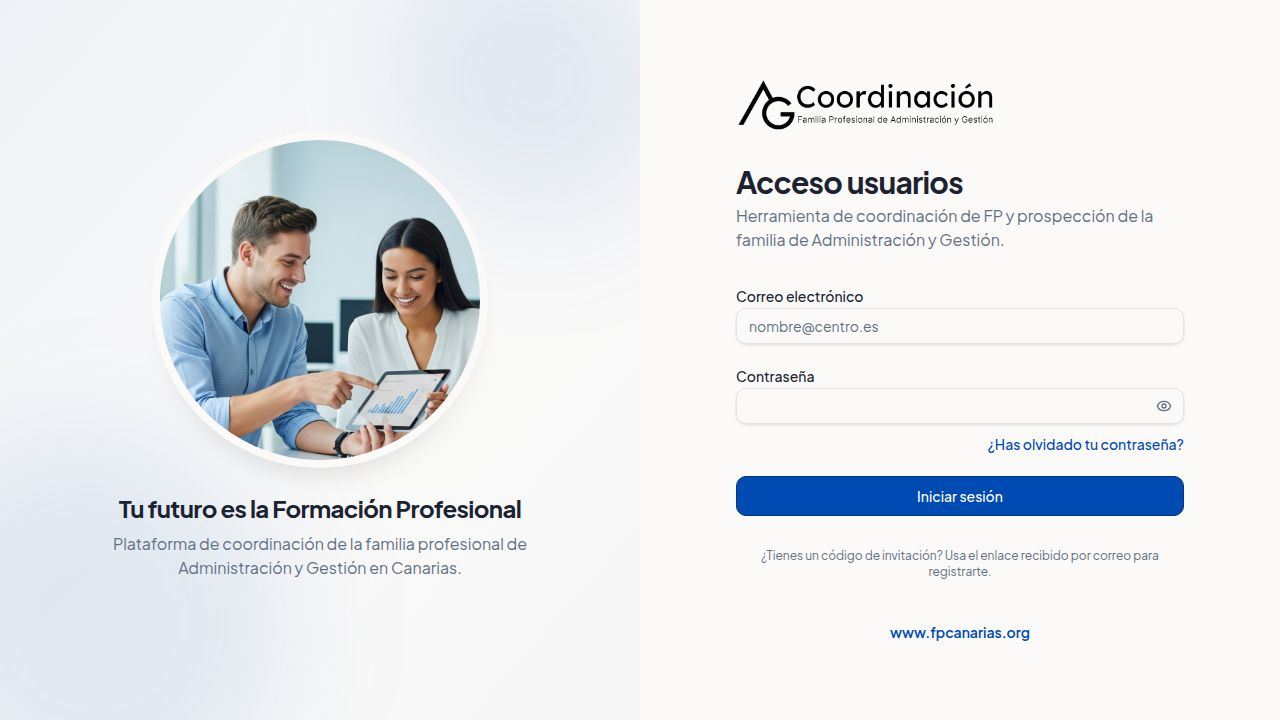
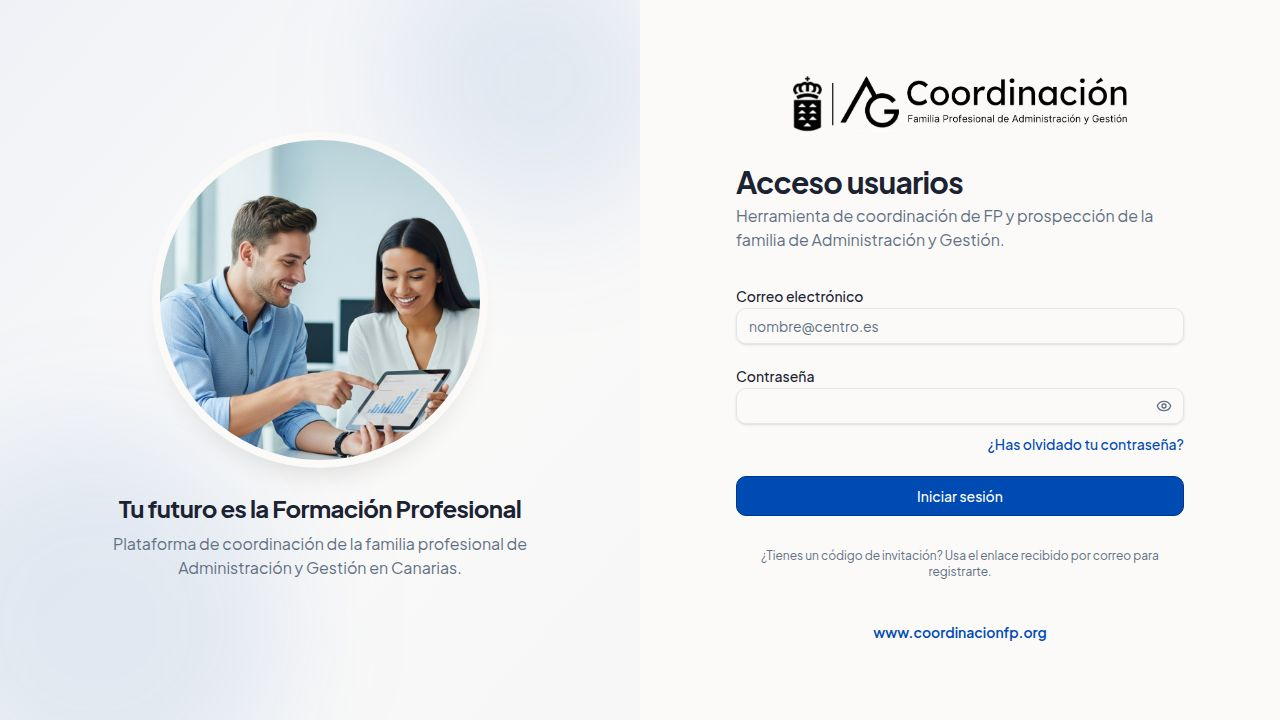
Fix bootstrap deadlock by making API token optional for initial login
Introduce a `loginReady` status to differentiate between full configuration and the ability to log in, allowing users to access Outline and create the necessary API token without requiring it upfront.

Replit-Commit-Author: Agent
Replit-Commit-Session-Id: e821acc1-37b8-4d06-96f6-77c2410569cb
Replit-Commit-Checkpoint-Type: full_checkpoint
Replit-Commit-Event-Id: c4529ff8-96e2-440d-9491-8402c19c4992
Replit-Commit-Screenshot-Url: https://storage.googleapis.com/screenshot-production-us-central1/23af8127-9343-4c36-b5e8-4810013bb784/e821acc1-37b8-4d06-96f6-77c2410569cb/nrqJcTv
Replit-Helium-Checkpoint-Created: true

Changed region(s): [[0.5625, 0.0917, 0.875, 0.1833], [0.6875, 0.8556, 0.8125, 0.8861]]

diff --git a/artifacts/api-server/src/routes/wiki.ts b/artifacts/api-server/src/routes/wiki.ts
@@ -19,6 +19,7 @@ import { requireAuth } from "../middlewares/auth";
 import { getSettings } from "../lib/settings";
 import {
   isOutlineConfigured,
+  isOutlineLoginReady,
   resolveOutlineConfig,
   resolveOutlineUrl,
   ensureModuleWiki,
@@ -38,6 +39,7 @@ router.get("/wiki/status", requireAuth, async (_req, res): Promise<void> => {
   res.json(
     GetWikiStatusResponse.parse({
       configured: isOutlineConfigured(settings),
+      loginReady: isOutlineLoginReady(settings),
       outlineUrl: resolveOutlineUrl(settings),
     }),
   );
@@ -296,11 +298,10 @@ router.post(
     const caller = req.user!;
 
     const settings = await getSettings();
-    if (!isOutlineConfigured(settings)) {
+    if (!isOutlineLoginReady(settings)) {
       res.status(503).json({ message: "La documentación no está configurada" });
       return;
     }
-    const config = resolveOutlineConfig(settings)!;
     const outlineUrl = resolveOutlineUrl(settings)!;
 
     const [module] = await db
@@ -312,16 +313,24 @@ router.post(
       return;
     }
 
-    try {
-      await ensureModuleWiki(config, {
-        id: module.id,
-        name: module.name,
-        code: module.code,
-      });
-    } catch (err) {
-      logger.error({ err, moduleId }, "Failed to provision module wiki");
-      res.status(502).json({ message: "No se pudo preparar la documentación" });
-      return;
+    // The API token is only needed to provision per-module collections. Without
+    // it, SSO sign-in still works (it lands on the Outline home), which lets an
+    // admin bootstrap the first login to create that token.
+    const config = resolveOutlineConfig(settings);
+    if (config) {
+      try {
+        await ensureModuleWiki(config, {
+          id: module.id,
+          name: module.name,
+          code: module.code,
+        });
+      } catch (err) {
+        logger.error({ err, moduleId }, "Failed to provision module wiki");
+        res
+          .status(502)
+          .json({ message: "No se pudo preparar la documentación" });
+        return;
+      }
     }
 
     const ticket = createTicket(caller.id, module.id, "outline");

diff --git a/artifacts/web/src/pages/documentacion.tsx b/artifacts/web/src/pages/documentacion.tsx
@@ -308,7 +308,9 @@ export default function DocumentacionPage() {
 
   const canManageEditors =
     user?.role === "superadmin" || user?.role === "coordinator";
-  const notConfigured = !statusLoading && status && !status.configured;
+  const notReady = !statusLoading && status && !status.loginReady;
+  const needsToken =
+    !statusLoading && status && status.loginReady && !status.configured;
 
   return (
     <div className="space-y-6">
@@ -326,7 +328,7 @@ export default function DocumentacionPage() {
         </div>
       </div>
 
-      {notConfigured ? (
+      {notReady ? (
         <Card>
           <CardContent className="p-6 space-y-3">
             <h2 className="font-semibold">Aún no está configurada</h2>
@@ -344,7 +346,27 @@ export default function DocumentacionPage() {
           </CardContent>
         </Card>
       ) : (
-        <Card>
+        <>
+          {needsToken && user?.role === "superadmin" && (
+            <Card className="border-amber-500/50 bg-amber-50 dark:bg-amber-950/20">
+              <CardContent className="p-5 space-y-2">
+                <h2 className="font-semibold">Falta el token de API</h2>
+                <p className="text-sm text-muted-foreground">
+                  Abre cualquier módulo para entrar en Outline (entrarás sin
+                  iniciar sesión). Una vez dentro, ve a{" "}
+                  <span className="font-medium">Settings → API Tokens</span>,
+                  crea un token y pégalo en el Panel de Control para activar las
+                  wikis por módulo.
+                </p>
+                <Button asChild variant="outline" size="sm">
+                  <Link href="/panel-control">
+                    <Settings className="w-4 h-4 mr-2" /> Ir al Panel de Control
+                  </Link>
+                </Button>
+              </CardContent>
+            </Card>
+          )}
+          <Card>
           <CardContent className="p-5 space-y-4">
             <div className="space-y-2 max-w-md">
               <Label htmlFor="module-search">Buscar módulo</Label>
@@ -409,7 +431,8 @@ export default function DocumentacionPage() {
               </div>
             )}
           </CardContent>
-        </Card>
+          </Card>
+        </>
       )}
 
       {active && (

diff --git a/artifacts/api-server/src/lib/outline.ts b/artifacts/api-server/src/lib/outline.ts
@@ -108,6 +108,16 @@ export function isOutlineConfigured(s?: OutlineSettings | null): boolean {
 }
 
 /**
+ * SSO sign-in works once the URL and OIDC client are present, even without the
+ * API token. The token is only needed to provision per-module collections, so
+ * this weaker check lets an admin bootstrap the first Outline login (to create
+ * that token) before the wiki is "fully" configured.
+ */
+export function isOutlineLoginReady(s?: OutlineSettings | null): boolean {
+  return resolveOutlineUrl(s) !== null && resolveOutlineOidcClient(s) !== null;
+}
+
+/**
  * Strict redirect_uri policy for the Outline OIDC client: the callback must live
  * on the same origin as the configured Outline base URL, under Outline's OIDC
  * callback path. Mirrors the Nextcloud check to avoid prefix-confusable hosts.

diff --git a/.agents/memory/outline-wiki.md b/.agents/memory/outline-wiki.md
@@ -83,3 +83,16 @@ The Outline API token (used by the api-server to provision collections/groups) c
 generated headlessly. The installer wires URL + OIDC client id/secret into the main .env
 automatically, but the admin must create the token in Outline (Settings → API Tokens) and
 paste it into the control panel → Documentación.
+
+## Token bootstrap catch-22 — login readiness vs full config
+**Rule:** SSO sign-in into Outline only needs URL + OIDC client. The API token is ONLY for
+provisioning per-module collections, so the open/login flow must NOT require it.
+**Why:** the only way to create the token is to log into Outline; if login itself is gated on
+the token, the admin can never reach Outline (open endpoint 503 + page shows "no configurada"
+→ dead end). This was a real bootstrap deadlock.
+**How to apply:** keep two checks distinct — `isOutlineConfigured` (URL+OIDC+token, "fully
+ready, can provision") vs `isOutlineLoginReady` (URL+OIDC, "SSO works"). `/wiki/status` returns
+both (`configured`, `loginReady`). The open endpoint gates on `loginReady` and only calls
+`ensureModuleWiki` when a token exists; with no token it still mints the SSO ticket and
+`/oidc/start` lands the user on Outline `/home` (moduleCollectionPath(null)). Frontend shows a
+"needs token" bootstrap banner when `loginReady && !configured` instead of blocking.